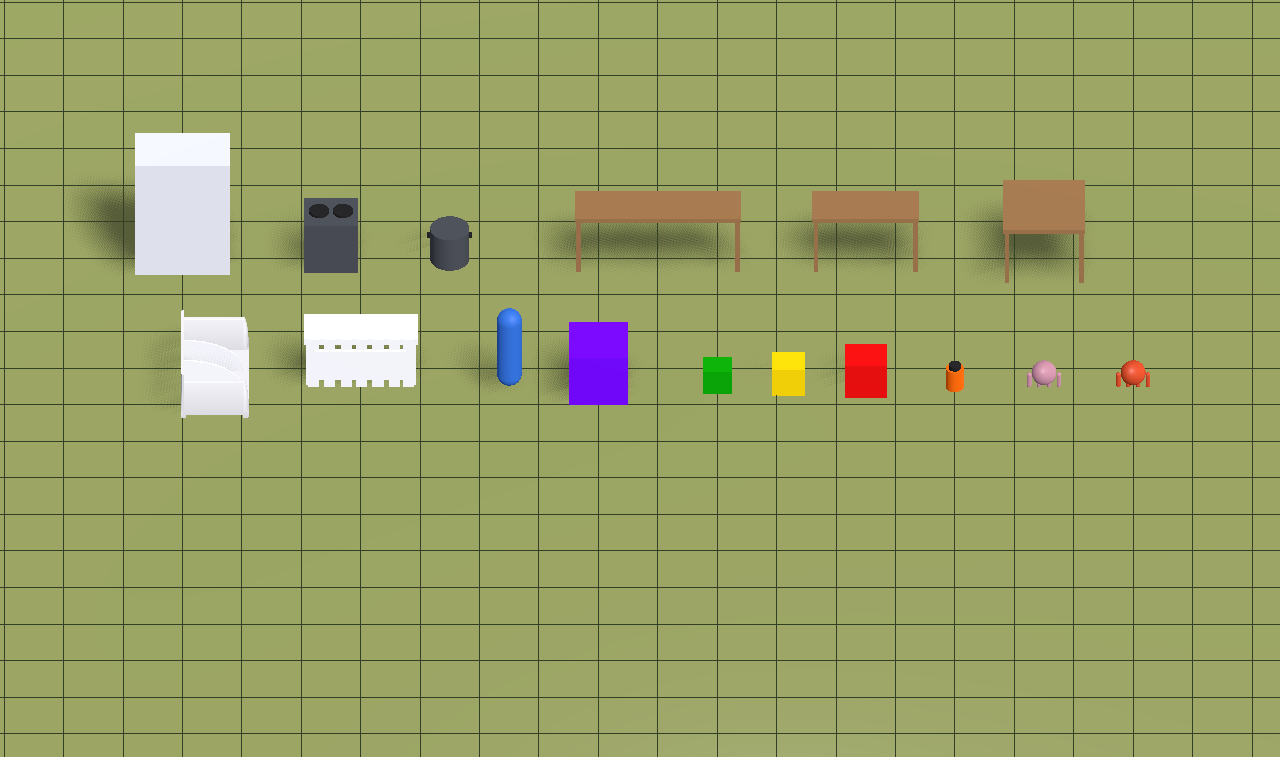
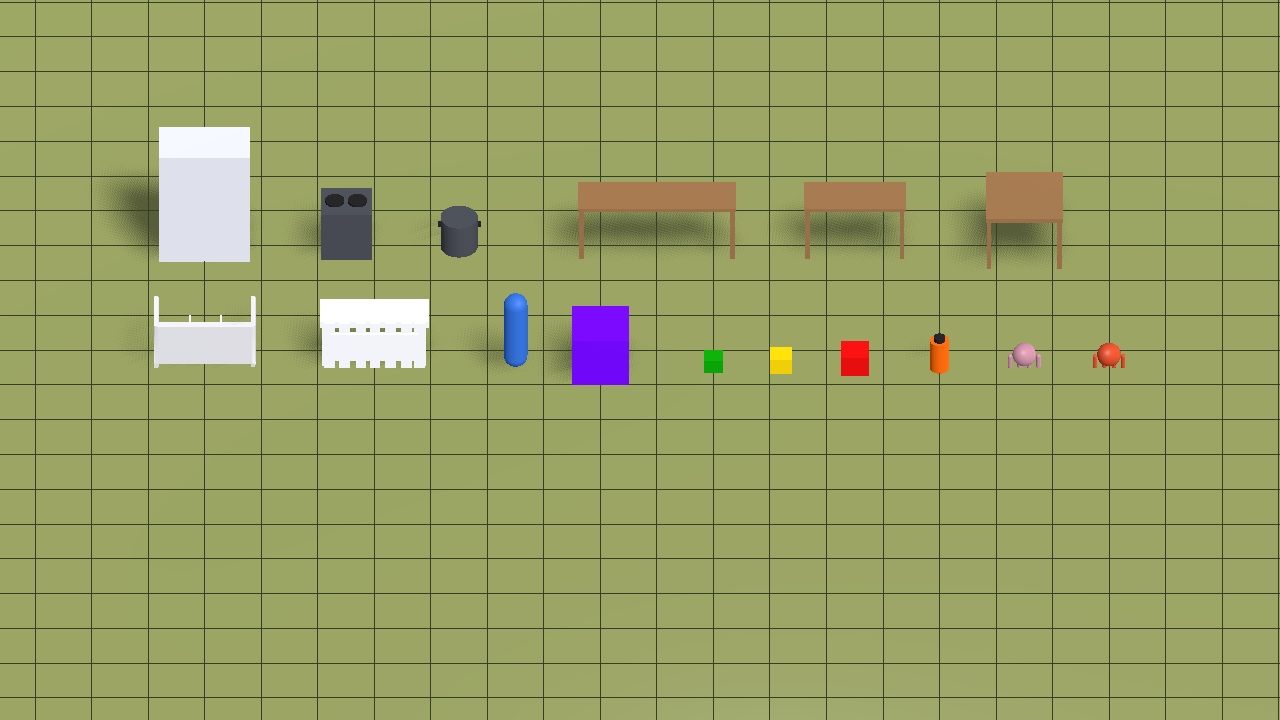
PUL-008: aplicar revisión de codex

diff --git a/docs/backlog/PUL-008-placeholders-y-escena-escala.md b/docs/backlog/PUL-008-placeholders-y-escena-escala.md
@@ -48,3 +48,4 @@ Generado con script headless de Godot (ResourceSaver), sin uids inventados; scri
 - AC1/AC2: `godot/tests/integration/test_scale_check.gd`. AABB importados: Mueblecajas 1,14×0,92×1,80 m; order_stand 1,92×2,02×0,77 m.
 - AC3: `docs/evidence/PUL-008/scale_check.png` (revisión humana).
 - Notas: `Camera3D.size` es el alto total (12,74 = 2 × 6,37 de Unity); posición z espejada (Unity −5,86 → +5,86). Mueblecajas va sin la rotación de −90° del nivel. La orientación del frente de los FBX no se pudo verificar sin referencia: revisar en la captura.
+- Revisión codex aplicada: cajas y bote con bounds de mesh × transforms de prefab (no collider); envoltorio `Mueblecajas.tscn` (yaw +90°, frente −Z, FBX original intacto; colocación del nivel en fase 8); tests con referencias derivadas y dirección global de Front/Nose/Handle; captura renovada.
